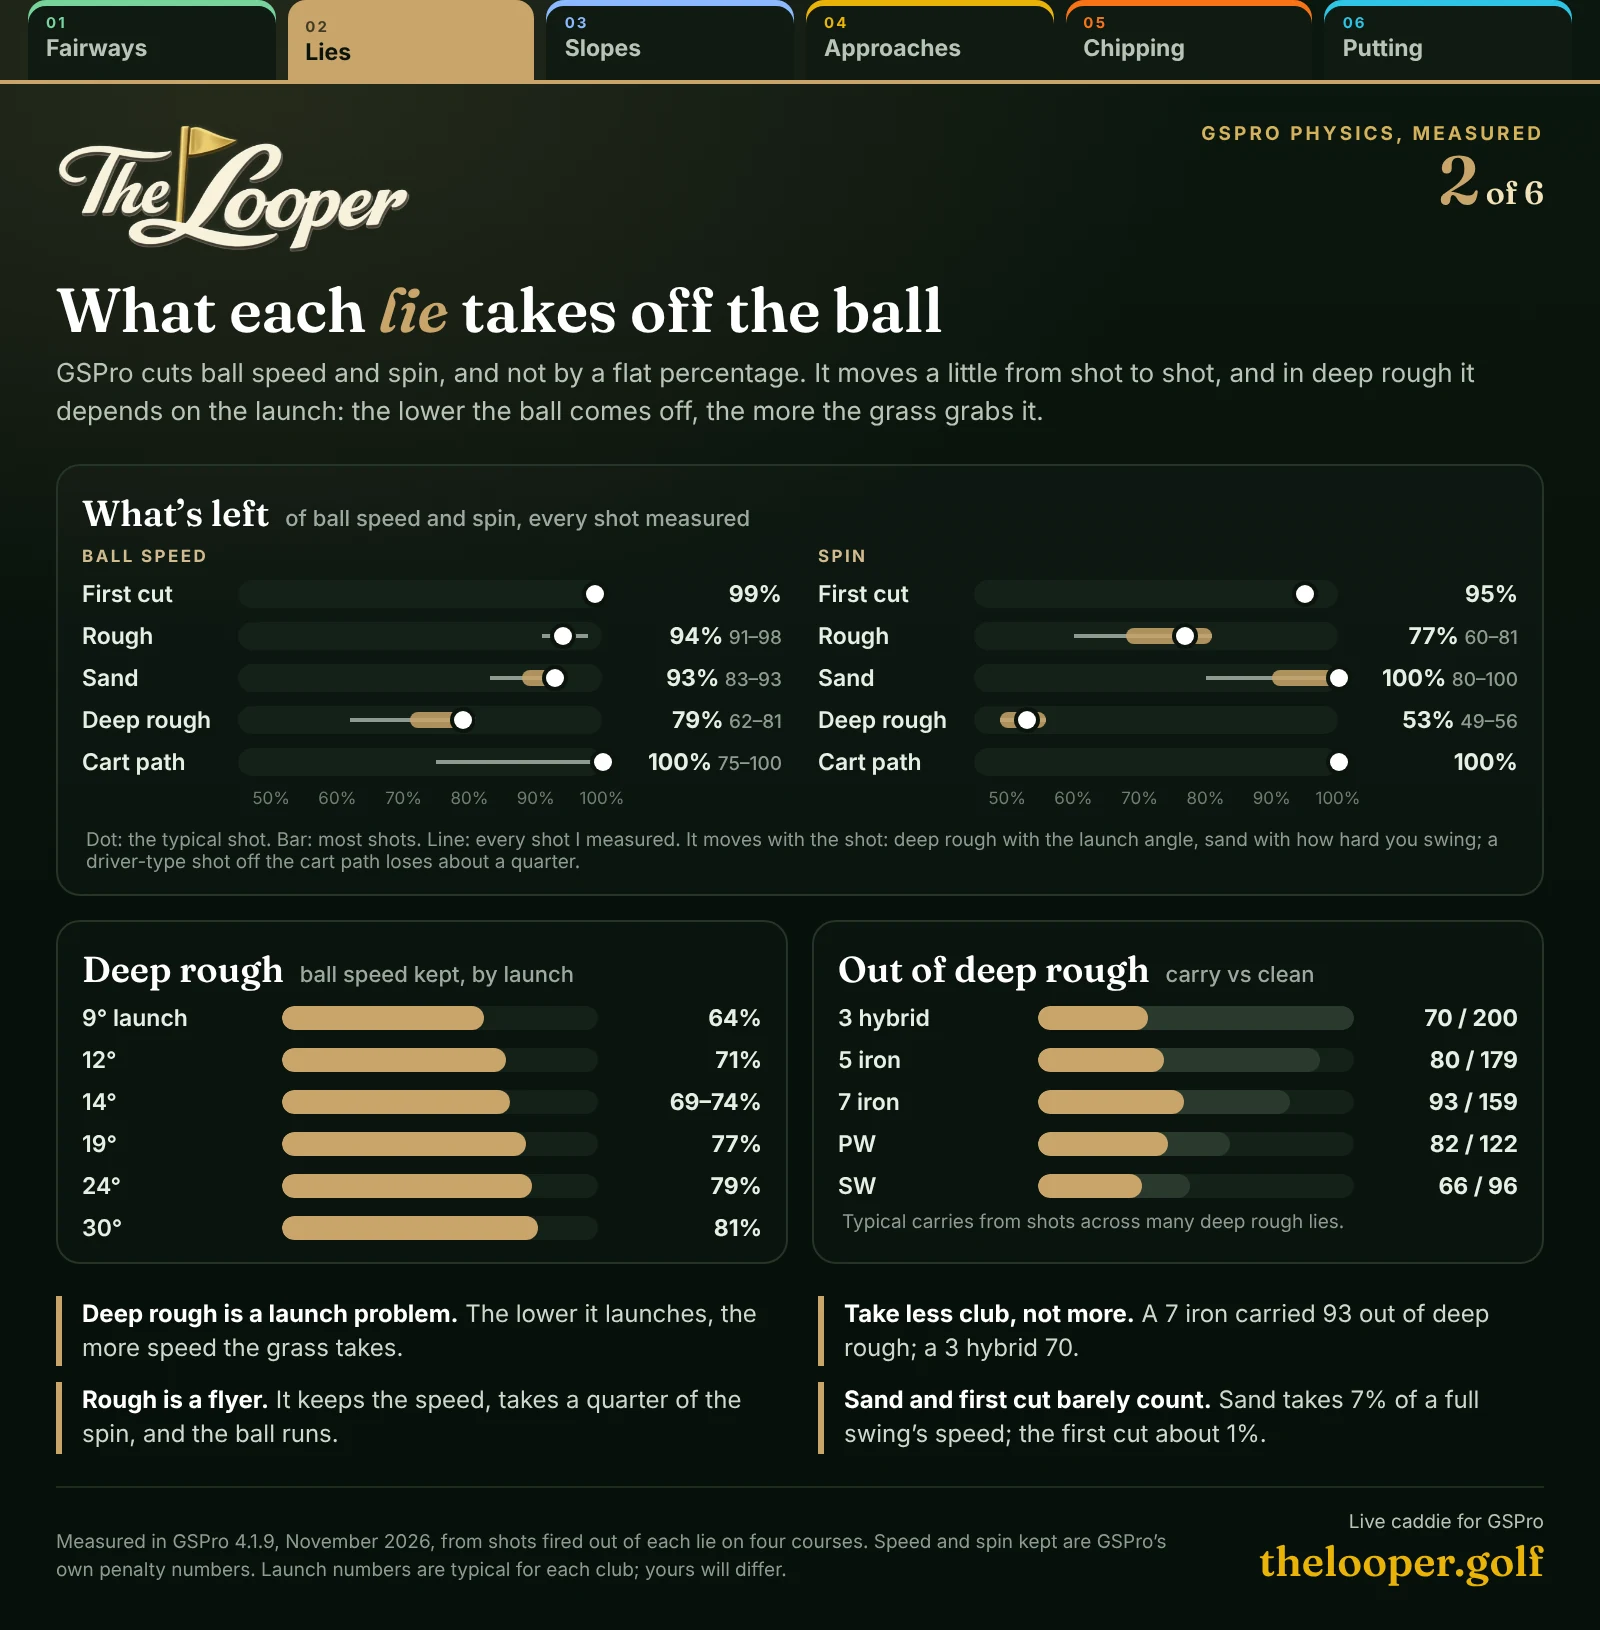
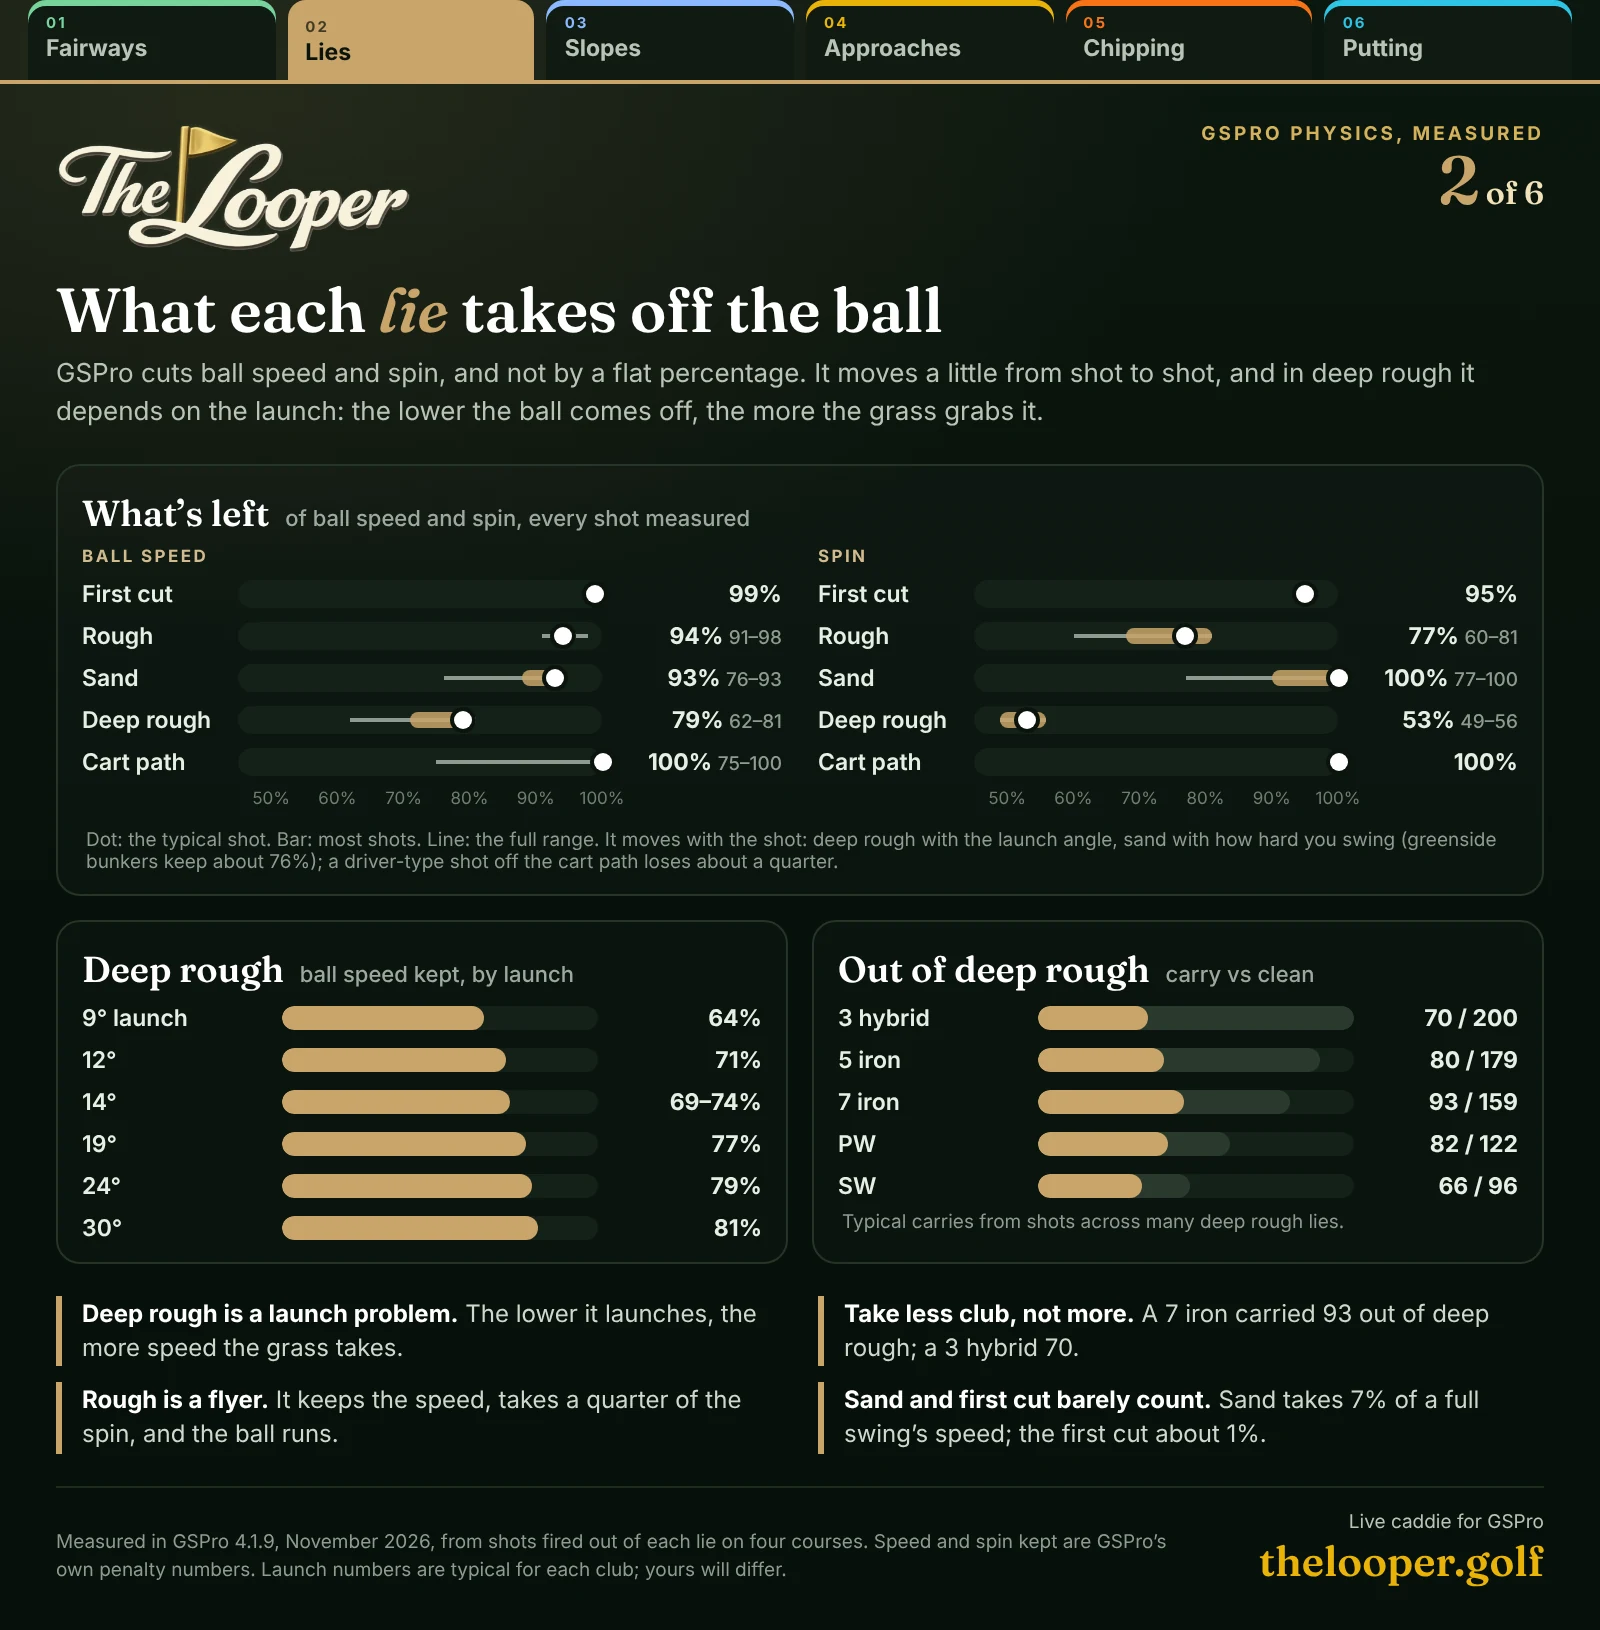
Insights: sand range reaches greenside bunkers (about 76% speed)
Claude-Session: https://claude.ai/code/session_01KGFLfEpMWkfe6jJuN8KeAf

diff --git a/src/pages/InsightsPage.tsx b/src/pages/InsightsPage.tsx
@@ -137,7 +137,8 @@ const PARTS: readonly Part[] = [
           </li>
           <li>
             <strong>Sand is gentler than you think on full swings.</strong> It takes about 7% of ball speed from a full
-            iron and leaves the spin alone. Slower swings lose more of both.
+            iron and leaves the spin alone. Slower swings lose more of both: a greenside bunker shot keeps only about
+            76% of its speed.
           </li>
           <li>
             <strong>The first cut barely counts.</strong> About 1% of speed and 5% of spin.

diff --git a/tools/insights_cards/card_data.py b/tools/insights_cards/card_data.py
@@ -44,11 +44,11 @@ CARDS = [
              "cols": ["Ball speed", "Spin"], "scale": (45, 100), "ticks": [50, 60, 70, 80, 90, 100],
              "rows": [("First cut", [(99, 99, 99, 99, 99), (95, 95, 95, 95, 95)]),
                       ("Rough", [(91, 93, 94, 96, 98), (60, 68, 77, 81, 81)]),
-                      ("Sand", [(83, 88, 93, 93, 93), (80, 90, 100, 100, 100)]),
+                      ("Sand", [(76, 88, 93, 93, 93), (77, 90, 100, 100, 100)]),
                       ("Deep rough", [(62, 71, 79, 81, 81), (49, 49, 53, 56, 56)]),
                       ("Cart path", [(75, 100, 100, 100, 100), (100, 100, 100, 100, 100)])],
-             "foot": "Dot: the typical shot. Bar: most shots. Line: every shot I measured. It moves with the shot: deep rough with the launch angle, "
-                     "sand with how hard you swing; a driver-type shot off the cart path loses about a quarter."},
+             "foot": "Dot: the typical shot. Bar: most shots. Line: the full range. It moves with the shot: deep rough with the launch angle, "
+                     "sand with how hard you swing (greenside bunkers keep about 76%); a driver-type shot off the cart path loses about a quarter."},
             {"kind": "bars", "title": "Deep rough", "sub": "ball speed kept, by launch", "max": 100,
              "rows": [("9\u00b0 launch", 64, "64%"), ("12\u00b0", 71, "71%"), ("14\u00b0", 72, "69\u201374%"),
                       ("19\u00b0", 77, "77%"), ("24\u00b0", 79, "79%"), ("30\u00b0", 81, "81%")]},
